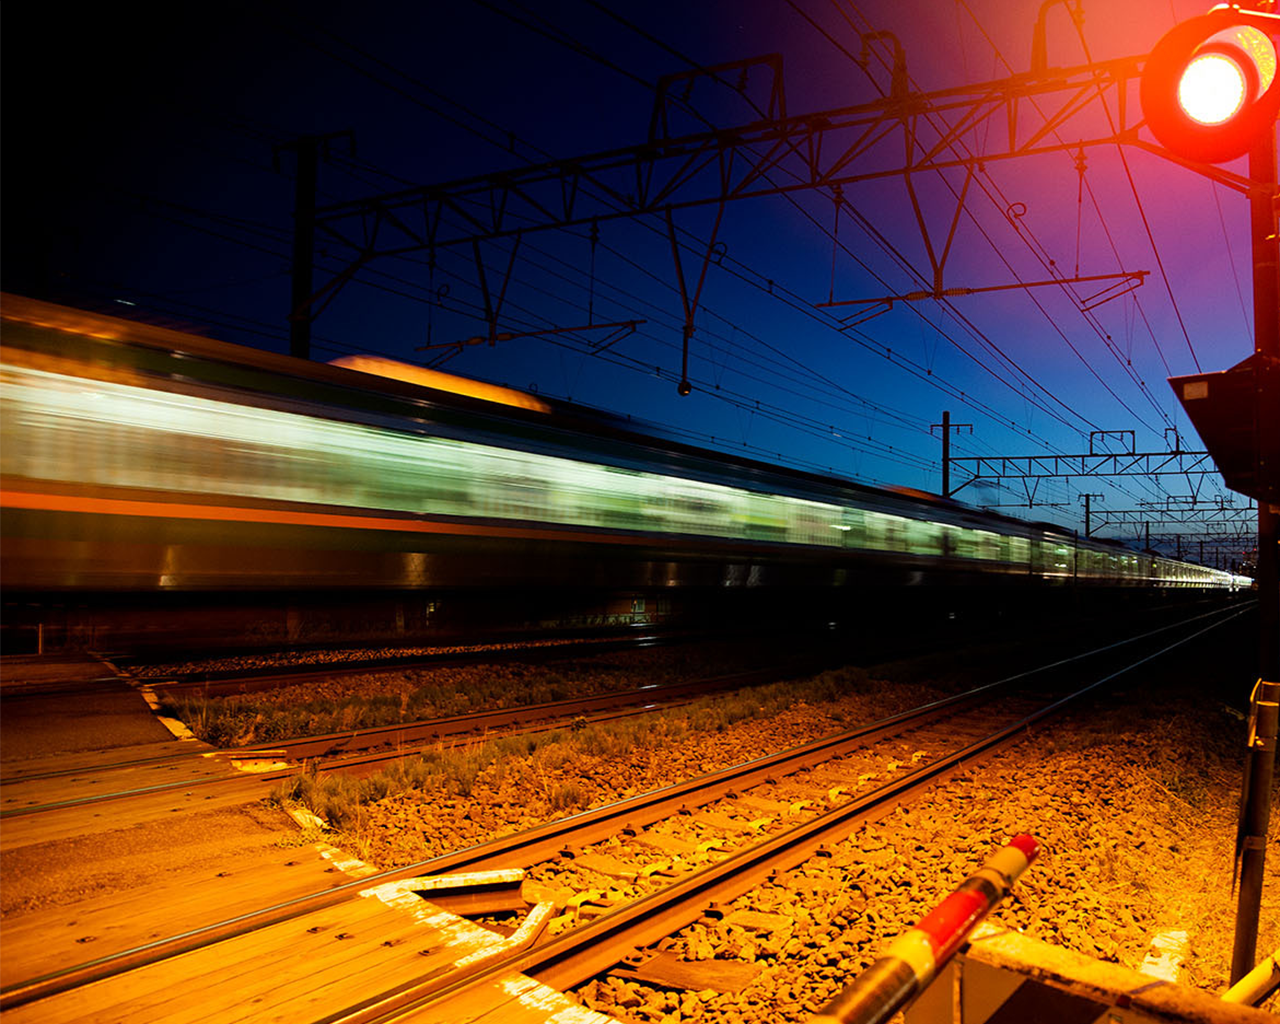
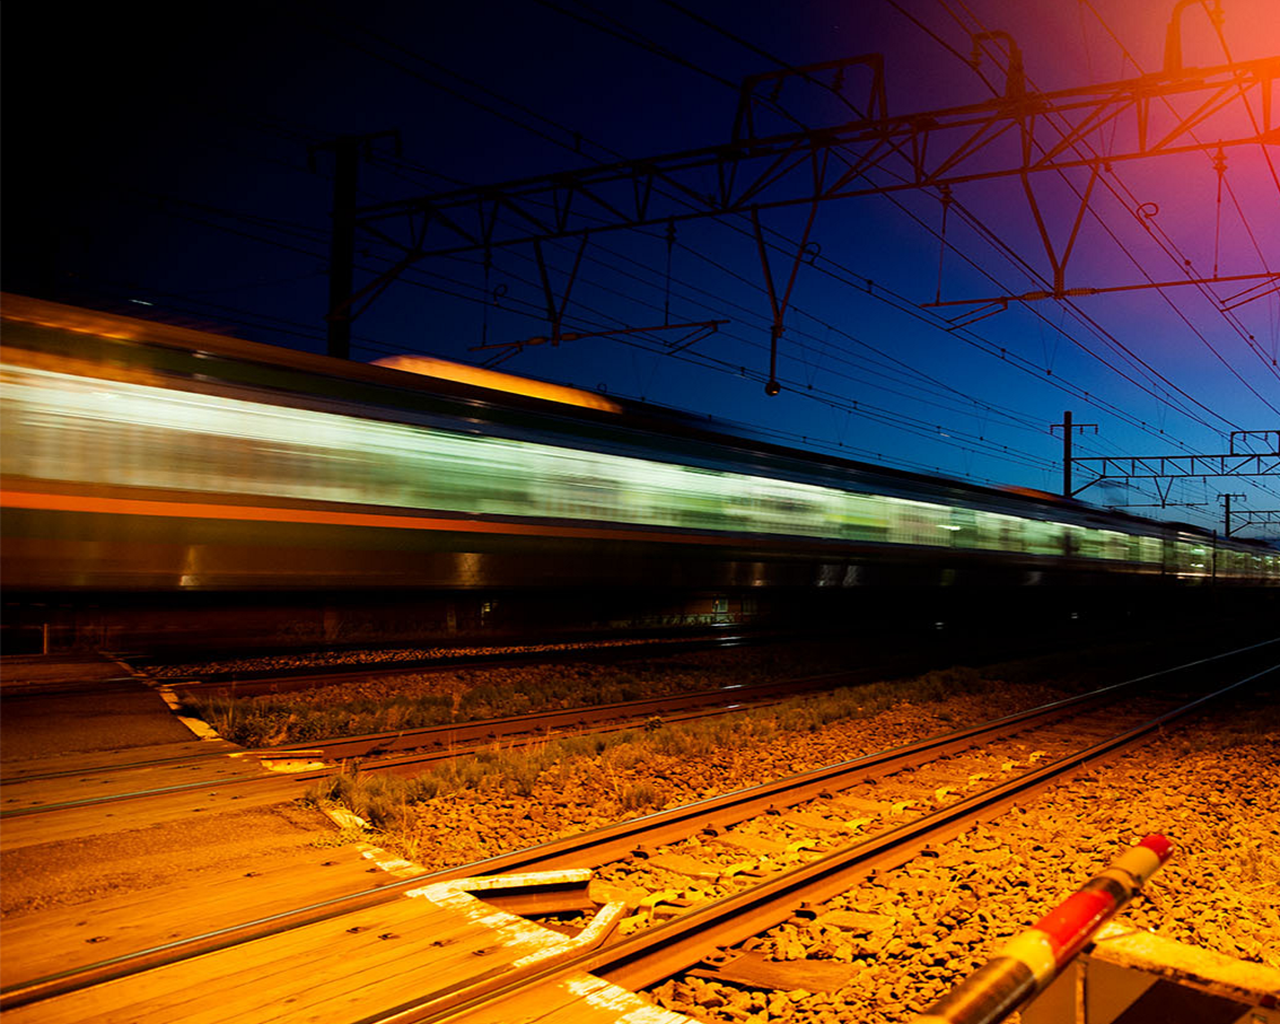
modifs diverses

diff --git a/fragments/presentation.frg.html b/fragments/presentation.frg.html
@@ -1,17 +1,5 @@
 <div id="cat_wrapper">
-    <p class="titre">Qui suis-je ?</p>
-
-    <p class="corps">Commerçant installé dans le calvados depuis 1996 et spécialisé dans le domaine de plantes et fleurs artificielles, j’ai souhaité diversifier mon activité et me spécialiser dans une passion qui m’anime depuis ma plus tendre enfance.</p>
-    <p class="corps">Ne soyez donc par surpris, lors de votre visite, de découvrir ce rayon de trains miniatures au milieu des plantes et des fleurs.</p> 
-    <p class="corps">Pour le moment je vous propose de découvrir les marques REE, LS Models, EPM, Peco et Heki.</p> 
-    <p class="corps">C’est une première étape dans l’assortiment que je vous proposerai.</p> 
-    <p class="corps">J’ai choisi ces marques pour la qualité de leur production, la finesse des détails et le rapport qualité prix.</p>
-    <p class="corps">Je suis moi-même collectionneur de ces marques et utilise ces références sur mon propre réseau.</p>
-    <p class="corps">N’hésitez pas à me contactez pour toute information, j’ai toujours plaisir à répondre à vos attentes et à vos questions.</p>
-    <p class="corps">Partageons cette même passion qui nous anime, et que vive le train !!!</p>
-    <p class="corps">Je vous remercie de votre passage sur notre site et vous souhaite une agréable visite.</p>
-
-    <p class="corps">&nbsp;</p>
+    <p class="titre">Qui sommes-nous ?</p>
 
     <p class="corps"><span class="gras">Raison sociale :</span> Trains-Ouest</p>
     <p class="corps"><span class="gras">Statut juridique :</span> commer&ccedil;ant ind&eacute;pedant</p>
@@ -19,9 +7,11 @@
     <p class="corps"><span class="gras">Magasin et si&eacute;ge social :</span> 17 avenue de la R&eacute;publique 14800 Deauville / France</p>
     <p class="corps"><span class="gras">T&eacute;l&eacute;phone fixe :</span> 02 31 14 03 59</p>
     <p class="corps"><span class="gras">T&eacute;l&eacute;phone portable :</span> 06 85 50 44 62</p>
-    <p class="corps"><span class="gras">E-mail :</span> trains-ouest@orange.fr</p>
+    <p class="corps"><span class="gras">E-mail :</span> decobac@wanadoo.fr</p>
     <p class="corps"><span class="gras">Site web :</span> www.trains-ouest.fr</p>
     <p class="corps"><span class="gras">TVA intra-communautaire :</span> FR14409778958</p>
     <p class="corps"><span class="gras">Siret :</span> RCS Honfleur 409 778 958 000 44</p>
+    <p class="corps"><span class="gras">Responsable des publications :</span> Jean-Louis DESLEUX</p>
+    <p class="corps"><span class="gras">Nom et adresse de l'hébergeur :</span> 1&1 Internet 7 place de la gare 57200 Sarreguemines</p>
 </div>
 

diff --git a/fragments/commander.frg.html b/fragments/commander.frg.html
@@ -2,7 +2,7 @@
 	<h1>Pour commander vous pouvez</h1>
 	<p>
 		Téléphoner au 02 31 14 03 59 du mardi au Samedi de 14h30 à 19h<br/>
-		Envoyer votre commande par e-mail à decobac@wanadoo.fr<br/>
+		Envoyer votre commande par e-mail à <a href="mailto:decobac@wanadoo.fr">decobac@wanadoo.fr</a><br/>
 		Envoyer votre commande par courrier à Trains-Ouest 17 avenue de la République 14800 Deauville<br/>
 	</p>
 	<p>

diff --git a/fragments/contact.frg.html b/fragments/contact.frg.html
@@ -2,7 +2,7 @@
     <h1>Contact</h1>
     <p>
         <span class="emph">Par téléphone </span>: 02 31 14 03 59 ou 06 85 50 44 62<br/>
-        <span class="emph">Par émail </span>: decobac@wanadoo.fr<br/>
+        <span class="emph">Par émail </span>: <a href="mailto:decobac@wanadoo.fr">decobac@wanadoo.fr</a><br/>
     </p>
     <p>
         <span class="emph">Par courrier </span>:<br/>

diff --git a/css/main.css b/css/main.css
@@ -15,7 +15,7 @@ a {
 }
 
 #bg {
-    background-image: url(../images/fond.jpg);
+    background-image: url(../images/fond.png);
     background-repeat: no-repeat;
     background-position: top center;
     background-attachment: fixed; 
@@ -195,7 +195,6 @@ a {
 }
 
 .info, .info img {
-    max-height: 582px;
     max-width: 729px;
 }
 

diff --git a/fragments/boutique.frg.html b/fragments/boutique.frg.html
@@ -1,5 +1,5 @@
 <div id="div_contact">
-    <h1>Découvrez la boutique Trains-Ouest</h1>
+    <h1>Découvrez le magasin Trains-Ouest</h1>
     <p style="text-align: center;">
         17 Avenue de la République<br/>
         14800 Deauville

diff --git a/php/form/AfficheProduit.class.php b/php/form/AfficheProduit.class.php
@@ -34,26 +34,12 @@ class AfficheProduit extends Produit {
         $html .= "  <div id=\"descriptif_produit\">";
 
         if ($prix == $promo)
-            $html .= "      <p id=\"tarif\"><span>à partir de </span>{$prix_formate}</p>";
+            $html .= "      <p id=\"tarif\">{$prix_formate}</p>";
         else {
-            $html .= "      <p id=\"tarif\"><span>à partir de </span>{$promo_formate}</p>";
+            $html .= "      <p id=\"tarif\">{$promo_formate}</p>";
             $valeurPromo = $outils->getPromo($this->idProduit);
             $html .= "      <p class=\"ancien_tarif\"><span>- " . $valeurPromo['valeur'] . "% </span>{$prix_formate}</p>";
         }
-
-        $html .= "      <p class=\"help help_caddie\">cliquez sur le caddie pour précommander le produit correspondant</p>";
-        $html .= "      <p id=\"listeTarif\">";
-        
-        $prix = $outils->getPrix($this->idProduit, false, true);
-        $promo = $outils->getPrix($this->idProduit, true, true);
-
-        if ($prix != $promo)
-            $prix_html = "{$promo} <span class=\"ancien_tarif_liste\">{$prix}</span> ";
-        else
-            $prix_html = $prix;
-
-        $onClick = "i_panier.displayQtyChooser({$this->idProduit})";
-        $html .= "{$prix_html}<img src=\"images/cart.png\" onClick=\"{$onClick}\" /><br/>";
         
         $html .= "      </p>";
         $html .= "      <div id=\"options_produit\">";

diff --git a/php/form/produit.class.php b/php/form/produit.class.php
@@ -52,7 +52,7 @@ class Produit {
             $this->nom = $tab['nom'];
             $this->marque = $tab['marque'];
             $this->tarif = $tab['tarif'];
-            if($tab['new'] == "new")
+            if(isset($tab['new']) && $tab['new'] == "new")
                 $this->nouveaute = true;
             else
                 $this->nouveaute = false;
@@ -108,7 +108,7 @@ class Produit {
             $this->marque = $tab['marque'];
             $this->tarif = $tab['tarif'];
             
-            if($tab['new'] == "new")
+            if(isset($tab['new']) && $tab['new'] == "new")
                 $this->nouveaute = true;
             else
                 $this->nouveaute = false;

diff --git a/php/catProd.class.php b/php/catProd.class.php
@@ -103,7 +103,7 @@ class catProd {
                 $html .= "      </div>\n";
 
                 $html .= "      <div class=\"description\">\n";
-                $html .= "          à partir de " . $this->outils->formatPrix($produits_tries[$x]['tarif']);
+                $html .= $this->outils->formatPrix($produits_tries[$x]['tarif']);
                 $html .= "      </div>\n";
                 $html .= "      <div class=\"zoom\"></div>";
                 $html .= "  </div>\n";

diff --git a/fragments/default_mg.frg.php b/fragments/default_mg.frg.php
@@ -10,7 +10,7 @@ $menu_gauche = '
        <div class="content">
          <a href="index.php">Accueil</a>
          <a href="index.php?a=presentation">Qui sommes nous ?</a>
-         <a href="index.php?a=boutique">Boutique</a>
+         <a href="index.php?a=boutique">Magasin</a>
          <a href="index.php?a=commander">Commander</a>
          <a href="index.php?a=contact">Contact</a>
          <a href="index.php?a=cgv">Conditions générales</a>
